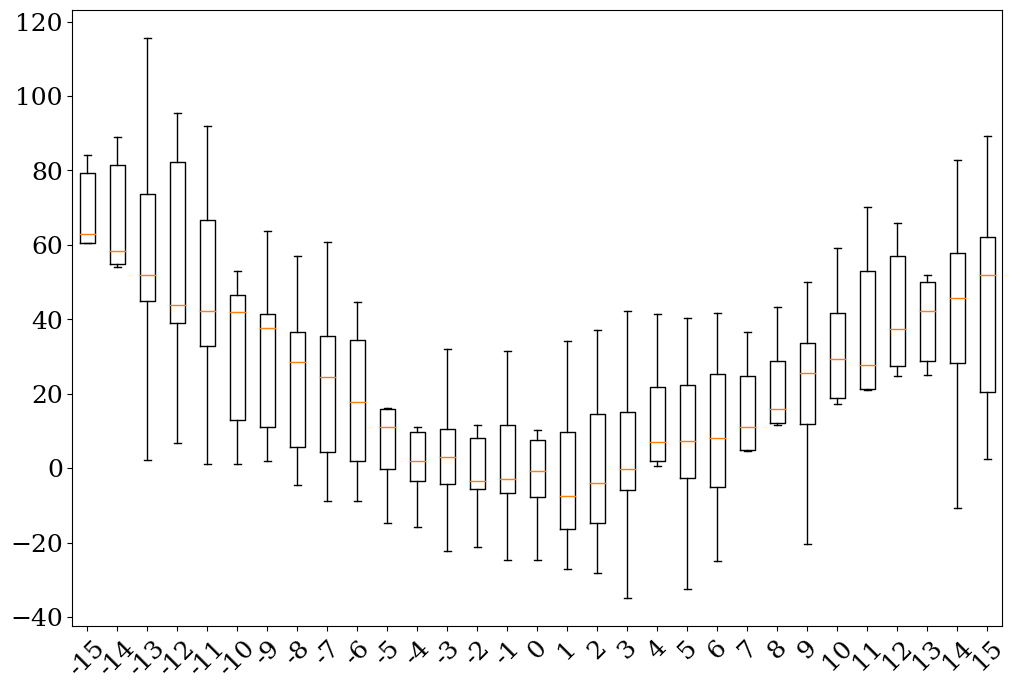
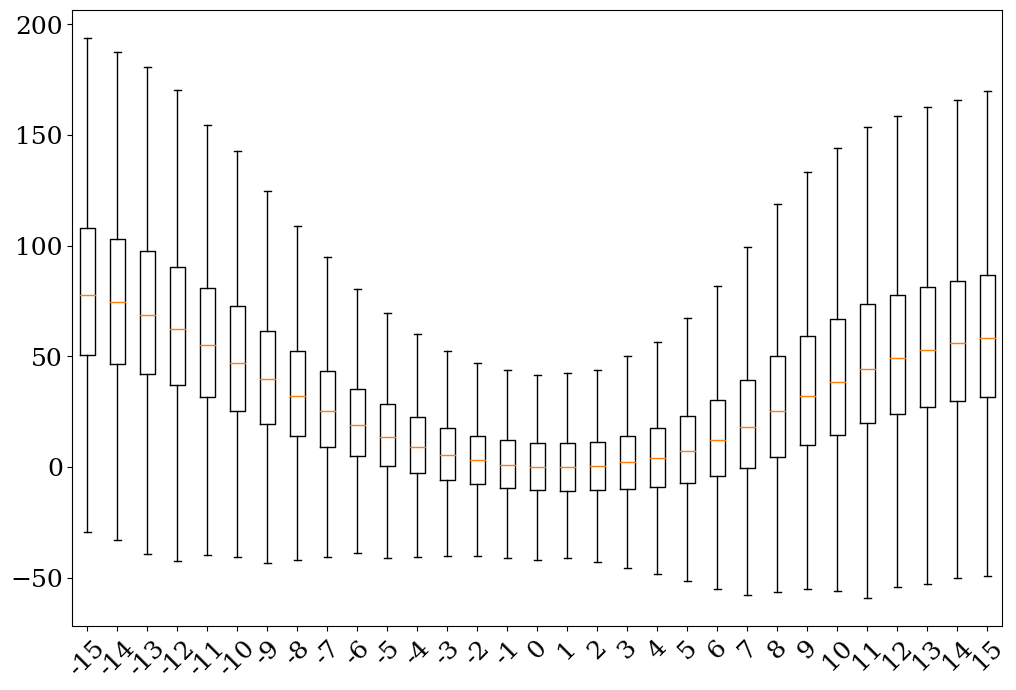
updated plots

diff --git a/echofunctions/timing_sweeps.py b/echofunctions/timing_sweeps.py
@@ -120,7 +120,7 @@ def calculateSweeps(timing, makeSweepFrames):
 
           # EF Calculations
           EF = (EDV - ESV)/EDV
-          diff_EF = EF - ground_truth_EF
+          diff_EF = ((EF - ground_truth_EF)/ground_truth_EF) * 100
           
           # Frame Index
           indexName = frameSweep.split('_')[1][:-4]
@@ -197,4 +197,4 @@ def createBoxPlot(volumeType="EDV", makeSweeps=True):
 
 #createBoxPlot(volumeType="ESV", makeSweeps=False)
 #createBoxPlot(volumeType="EDV", makeSweeps=False)
-#createBoxPlot(volumeType="EF", makeSweeps=False)
+createBoxPlot(volumeType="EF", makeSweeps=False)
